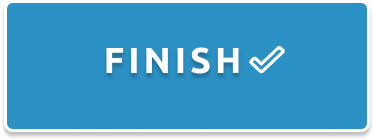
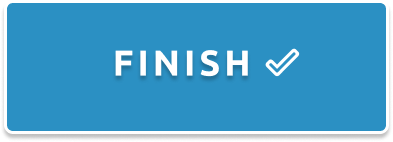
ALTERAÇÃO: Popup ValueSelector Finalizado

diff --git a/src/br/com/ticotech/gbooks/java/view/sale/ValueSelector.java b/src/br/com/ticotech/gbooks/java/view/sale/ValueSelector.java
@@ -7,6 +7,8 @@ import br.com.ticotech.gbooks.java.view.shared.Popups;
 import br.com.ticotech.gbooks.java.view.shared.TextField;
 
 import javax.swing.*;
+import java.awt.*;
+import java.util.Objects;
 
 public class ValueSelector extends JFrame {
 
@@ -20,21 +22,33 @@ public class ValueSelector extends JFrame {
         this.saleController = saleController;
         this.finishSection = finishSection;
         setDefaultCloseOperation(JFrame.DISPOSE_ON_CLOSE);
-        setSize(600, 500);
+        setSize(500, 180);
         setLayout(null);
+        setLocationRelativeTo(null);
+        setTitle("Value Selector");
         setResizable(false);
 
-        valueInput = new TextField("VALUE");
-        valueInput.setBounds(50,50,200,50);
+        TextField firstField = new TextField("");
+        firstField.setOpaque(false);
+        firstField.setBorder(null);
+        firstField.setBounds(830, 1,  1, 1);
+        this.add(firstField);
+
+        valueInput = new TextField("INSERT VALUE");
+        valueInput.setBounds(40,20,420,50);
         this.add(valueInput);
 
-        Button fullValueButton = new Button(Constants.ADD_BUTTON);
-        fullValueButton.setBounds(50,200, 200,100);
-        fullValueButton.addActionListener(e -> valueInput.setText(saleController.getToPay()));
+
+        Button fullValueButton = new Button(Constants.TOTAL_VALUE_BUTTON);
+        fullValueButton.setBounds(35,90, 208,58);
+        fullValueButton.addActionListener(e -> {
+            valueInput.setText(saleController.getToPay());
+            doPayment();
+        });
         this.add(fullValueButton);
 
-        Button finishButton = new Button(Constants.FINISH_SALE_BUTTON);
-        finishButton.setBounds(30,300,450,150);
+        Button finishButton = new Button(Constants.CHANGE_BUTTON);
+        finishButton.setBounds(260,90,208,58);
         finishButton.addActionListener(e -> doPayment());
         this.add(finishButton);
 

diff --git a/src/br/com/ticotech/gbooks/java/view/shared/Constants.java b/src/br/com/ticotech/gbooks/java/view/shared/Constants.java
@@ -48,10 +48,8 @@ public class Constants {
     public static final String RESET_FILTER = "../shared/images/ResetFilter.png";
     public static final String SEARCH_BUTTON = "../shared/images/SearchButton.png";
     public static final String LOGIN_ICON = "shared/images/LoginIcon.png";
-    public static final String INSERT_VALUE_BUTTON = "../shared/images/InsertValueButton.png";
     public static final String TOTAL_VALUE_BUTTON = "../shared/images/TotalValueButton.png";
-    public static final String TOTAL_VALUE_SELECTED_BUTTON = "../shared/images/TotalValueSelectedButton.png";
-    public static final String FINISH_VALUE_SELECTOR_BUTTON = "../shared/images/FinishValueSelectorButton.png";
+    public static final String CHANGE_BUTTON = "../shared/images/ChangeButton.png";
     public static final String INVALID_CREDENTIALS = "shared/images/InvalidCredentialsImage.png";
 
 }

diff --git a/src/br/com/ticotech/gbooks/java/view/sale/FinishSection.java b/src/br/com/ticotech/gbooks/java/view/sale/FinishSection.java
@@ -118,11 +118,11 @@ public class FinishSection {
         changeDisplay = new Display("CHANGE");
         changeDisplay.setFont(new Font(Constants.DEFAULT_FONT, Font.BOLD,23));
         changeDisplay.setBackground(Constants.BABY_BLUE);
-        changeDisplay.setBounds(380, 84, 240, 130);
+        changeDisplay.setBounds(379, 84, 240, 130);
         totalPanel.add(changeDisplay);
 
         finishButton = new Button(Constants.FINISH_SALE_BUTTON);
-        finishButton.setBounds(625, 80, 390, 140);
+        finishButton.setBounds(630, 80, 385, 142);
         finishButton.setEnabled(false);
         finishButton.addActionListener(e -> finishSale());
         totalPanel.add(finishButton);

diff --git a/src/br/com/ticotech/gbooks/java/view/MainFrame.java b/src/br/com/ticotech/gbooks/java/view/MainFrame.java
@@ -173,6 +173,12 @@ public class MainFrame {
         usersButton.setEnabled(false);
         logoutButton.setEnabled(false);
 
+        TextField firstField = new TextField("");
+        firstField.setOpaque(false);
+        firstField.setBorder(null);
+        firstField.setBounds(830, 200,  1, 1);
+        centerPanel.add(firstField);
+
         TextField idField = new TextField("ID");
         idField.setFont(new Font(Constants.DEFAULT_FONT, Font.BOLD,23));
         idField.setBackground(Color.WHITE);

diff --git a/src/br/com/ticotech/gbooks/java/view/shared/Popups.java b/src/br/com/ticotech/gbooks/java/view/shared/Popups.java
@@ -23,7 +23,6 @@ public class Popups extends JOptionPane{
 
         JPanel buttonPanel = new JPanel();
         buttonPanel.setPreferredSize(new Dimension(100, 50));
-        //buttonPanel.setLayout(null);
         buttonPanel.setBackground(new Color(255, 255, 255));
 
         JPanel marginWestPanel = new JPanel();

diff --git a/src/br/com/ticotech/gbooks/java/model/UserRepository.java b/src/br/com/ticotech/gbooks/java/model/UserRepository.java
@@ -16,6 +16,7 @@ public class UserRepository {
     users.add(new User("Fernando", "Fernando123"));
     users.add(new User("Edenilson", "Edenilson123"));
     users.add(new User("Jonathan", "Jonathan123"));
+    users.add(new User("a", "a"));
   }
 
   public List<User> getUsers() {
